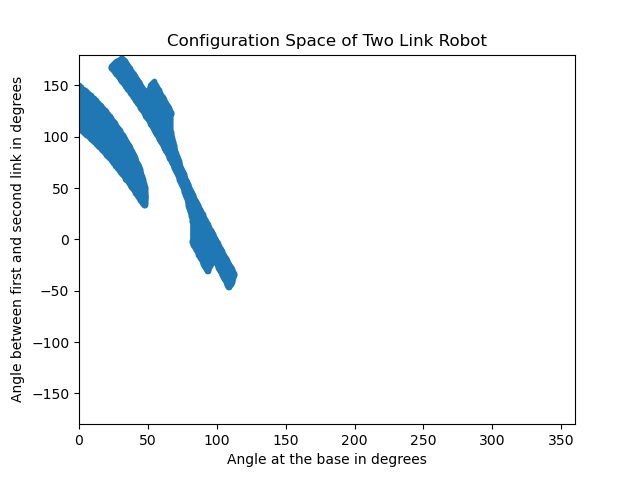
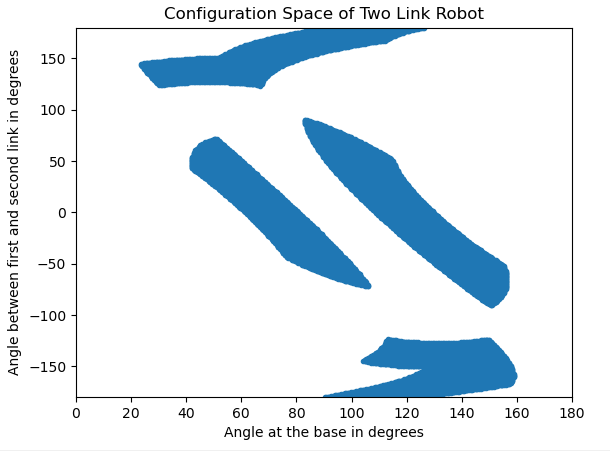
Add files via upload
fixed typo

diff --git a/iteratenums.py b/iteratenums.py
@@ -20,7 +20,7 @@ for lower_angle in lower_theta:
     for upper_angle in upper_theta:
         end_angle=lower_angle+upper_angle
         x=lower_length*np.cos(lower_angle)+upper_length*np.cos(end_angle)
-        y=lower_length*np.cos(lower_angle)+upper_length*np.sin(end_angle)
+        y=lower_length*np.sin(lower_angle)+upper_length*np.sin(end_angle)
         
         if (x>=ob1[0] and x<=ob1[2] and y>=ob1[1] and y<=ob1[3] or
         x>=ob2p1[0] and x<=ob2p1[2] and y>=ob2p1[1] and y<=ob2p1[3] or
@@ -33,7 +33,7 @@ plt.plot(crash[:,0],crash[:,1],'.')
 plt.title("Configuration Space of Two Link Robot")
 plt.ylabel("Angle between first and second link in degrees")
 plt.xlabel("Angle at the base in degrees")
-plt.axis([0,360,-180,180])
+plt.axis([0,180,-180,180])
 plt.show()
 
 
